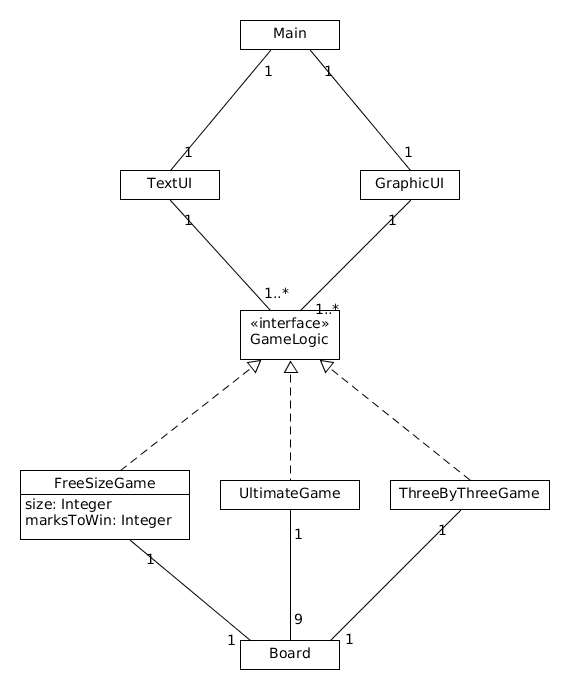
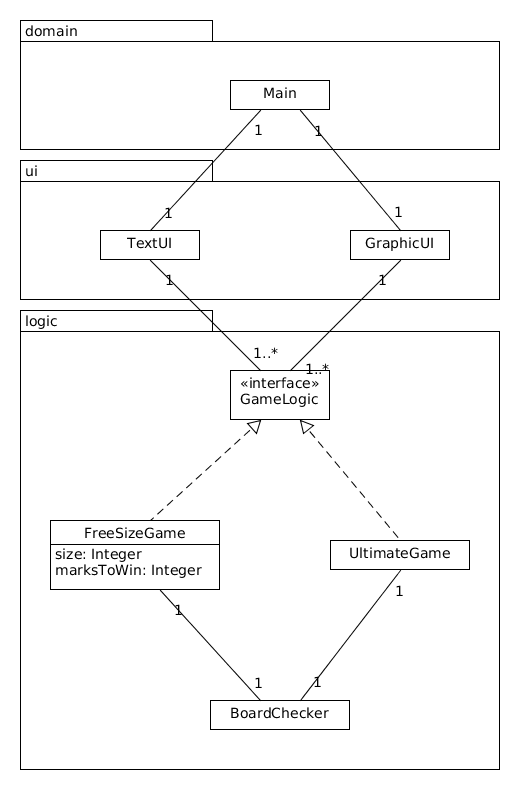
Updated arkkitehtuuri.md

diff --git a/documentation/arkkitehtuuri.md b/documentation/arkkitehtuuri.md
@@ -1,8 +1,28 @@
 # Arkkitehtuurikuvaus
 
+## Rakenne
+
+Koodin kolmikerroksinen pakkausrakenne on seuraava:
+
+<img src="https://raw.githubusercontent.com/xneme/yet-another-ristinolla/master/documentation/pakkausrakenne.png">
+
+## Käyttöliittymä
+
+Käyttöliittymä sisältää neljä eri näkymää:
+- Menu
+- 3x3 ristinolla
+- 10x10 ristinolla
+- Ultimate ristinolla
+
+Jokainen on toteutettu omana scene-olionaan ja näistä on kerrallaan näkyvissa yksi sovelluksen stagessa.
+
+Käyttöliittymä on eristetty sovelluslogiikasta GameLogic-rajapinnan kautta, jonka metodeita käyttäen logiikkaa ohjataa.
+
 ## Sovelluslogiikka
 
-Luokkakaavio:
+Yksittäisen pelin logiikka suoritetaan FreeSizeGame- tai UltimateGame-luokassa, jotka toteuttavat GameLogic-rajapinnan. Luokat käyttävät BoardChecker-luokkaa sisäisen array-mallisen pelilautansa tarkistamiseen ja pitävät muuttujissa tallessa esimerkiksi tietoa vuorosta ja mahdollisesta pelin voittajasta.
+
+Luokka/pakkauskaavio:
 
 <img src="https://raw.githubusercontent.com/xneme/yet-another-ristinolla/master/documentation/luokkakaavio.png">
 
@@ -13,3 +33,9 @@ Luokkakaavio:
 Tyhjää ruutua klikatessa etenee sovelluksen kontrolli seuraavasti:
 
 <img src="https://raw.githubusercontent.com/xneme/yet-another-ristinolla/master/documentation/sekvenssi_siirto.png">
+
+## Ohjelman rakenteeseen jääneet heikkoudet
+
+### logiikka
+
+Logiikkaluokat säilyttävät tiedot pelilaudan tilanteesta int arrayssa, joka annetaan BoardChecker-luokalle tutkittavaksi, joka on hieman liian C-tyylinen lähestymistapa. Parempi olisi luoda Board-luokka, jonka metodeita käyttämällä saataisiin suoraan pelilaudan tila. Erityisesti tämä hyödyttäisi Ultimate-pelimoodia, jossa pelilauta koostuu yhdeksästä pienemmästä pelilaudasta.

diff --git a/documentation/tuntikirjanpito.md b/documentation/tuntikirjanpito.md
@@ -16,4 +16,5 @@
 | 12.5. | 2    | Debugattu Ultimate-modea, lisätty korostusväri laillisiin siirtoihin|
 |       | 1    | Poistettu ThreeByThree, korvattu NByN:llä|
 |       | 3    | Siirretty ja kirjoitettu lisää testejä|
-| yht   | 30   | |
+|       | 2    | Päivitetty dokumentaatiota|
+| yht   | 32   | |
